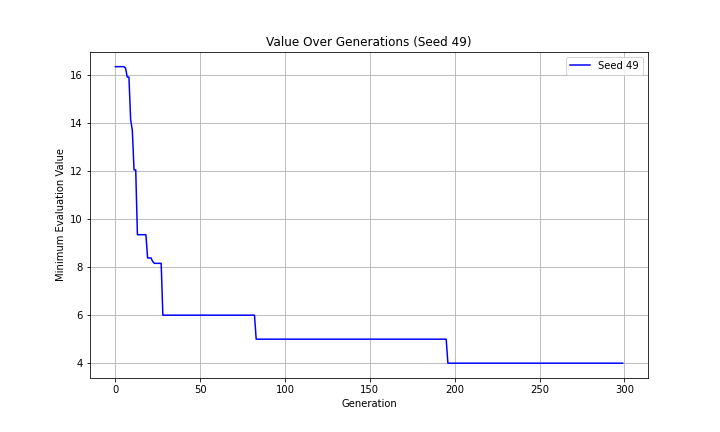
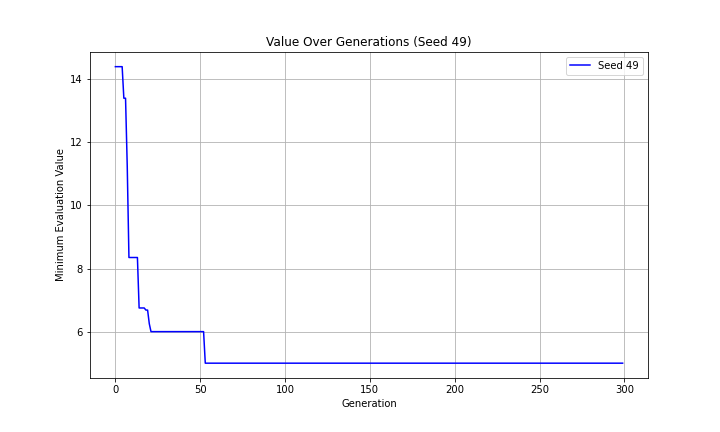
Add files via upload

diff --git a/project_scheduling/problem.py b/project_scheduling/problem.py
@@ -40,10 +40,7 @@ class ResourceConstrainedSchedulingProblem(Problem):
     def _evaluate(self, x, out, *args, **kwargs):
         robot_types, robot_initial_positions, J, p, task_attributes, P, R, T, robot_abilities, workspace, workspace_distance, moving_cost, C, RUB = self.robot_types, self.robot_initial_positions, self.J, self.p, self.task_attributes, self.P, self.R, self.T, self.robot_abilities, self.workspace, self.workspace_distance, self.moving_cost, self.C, self.RUB
 
-        # シード値を定義
-        seed = 42
-        # シード値に基づいた乱数生成器を作成
-        rng = np.random.default_rng(seed)
+
 
         x = x.reshape((x.shape[0], len(R), T))
     
@@ -54,6 +51,12 @@ class ResourceConstrainedSchedulingProblem(Problem):
         robot_failed = np.zeros((x.shape[0], len(R)), dtype=bool)  # ロボットごとの故障状態を追跡 (0: 正常, 1: 故障)
     
         for i in range(x.shape[0]):
+            
+            # シード値を定義
+            seed = 45
+            # シード値に基づいた乱数生成器を作成
+            rng = np.random.default_rng(seed)
+            
             workload = np.zeros(len(J))  # 各タスクの合計仕事量
             task_completed = np.zeros(len(J))
             task_completion_time = np.full(len(J), -1)  # タスクの完了時間を初期化

diff --git a/project_scheduling/plot.py b/project_scheduling/plot.py
@@ -38,6 +38,12 @@ def plot_schedule(result, J, R, T, robot_types):
                 ax.broken_barh([(t, 1)], (r, 1), facecolors=(face_color))
                 #ax.text(t + 0.5, r + 0.5, "move", ha='center', va='center', color=text_color)  # 移動中には「move」を表示
 
+            elif half_task_flag[r, t] == 1 and task_id > 0 and failed_tasks[r, t] == 1:  # half_task_flagが設定されている場合
+                task_color = colors(int(task_id - 1))  # タスクIDに対応する色
+                ax.broken_barh([(t, 0.5)], (r, 1), facecolors='white')  # 左半分を白
+                ax.broken_barh([(t + 0.5, 0.5)], (r, 1), facecolors=(task_color))  # 右半分をタスクの色
+                ax.text(t + 0.5, r + 0.5, f"T{int(task_id)}", ha='center', va='center', color='white')
+
             elif half_task_flag[r, t] == 1 and task_id > 0:  # half_task_flagが設定されている場合
                 task_color = colors(int(task_id - 1))  # タスクIDに対応する色
                 ax.broken_barh([(t, 0.5)], (r, 1), facecolors='white')  # 左半分を白
